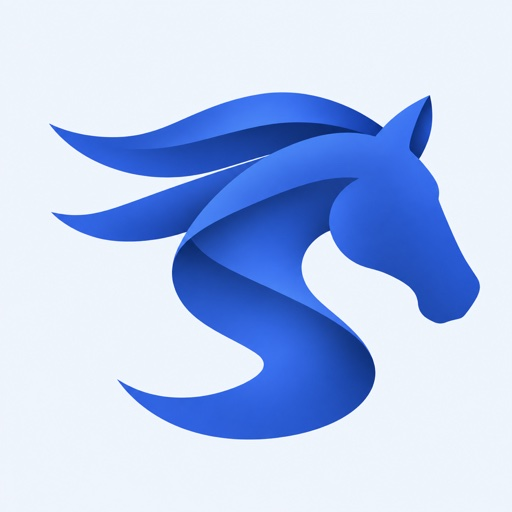
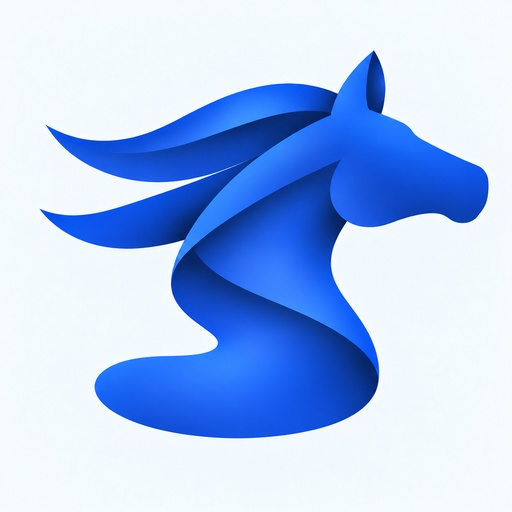
Update Stallion horse artwork across website

Changed region(s): [[0.0625, 0.0938, 0.9688, 0.875], [0.5938, 0.7812, 0.7188, 0.8438]]

diff --git a/stallion/privacy/index.html b/stallion/privacy/index.html
@@ -17,7 +17,7 @@
 <body>
   <main>
     <header>
-      <img src="/stallion/logo.png" alt="" width="132" height="106" />
+      <img src="/stallion/logo.png" alt="" width="132" height="114" />
       <h1>Stallion</h1>
       <p class="lede">A training journal for your Apple Health workouts.</p>
       <p class="soon">Coming soon to the App Store</p>

diff --git a/stallion/support/index.html b/stallion/support/index.html
@@ -18,7 +18,7 @@
 <body>
   <main>
     <header>
-      <img src="/stallion/logo.png" alt="" width="132" height="106" />
+      <img src="/stallion/logo.png" alt="" width="132" height="114" />
       <h1>Stallion</h1>
       <p class="lede">A training journal for your Apple Health workouts.</p>
       <p class="soon">Coming soon to the App Store</p>

diff --git a/stallion/index.html b/stallion/index.html
@@ -27,7 +27,7 @@
 <body>
   <main>
     <header>
-      <img src="/stallion/logo.png" alt="" width="132" height="106" />
+      <img src="/stallion/logo.png" alt="" width="132" height="114" />
       <h1>Stallion</h1>
       <p class="lede">Remember more than the numbers.</p>
       <p class="soon">Coming soon to the App Store</p>

diff --git a/README.md b/README.md
@@ -40,7 +40,7 @@ Jorick's personal maker site: a landing page for his apps, later a blog. "Steed"
 - Each app's one-liner is approved by Jorick; do not reword it without asking.
 - Icons in `assets/icons/` are 192px exports of each app's App Store icon, square and full-bleed (the page rounds the corners), each with a `-dark` variant for dark mode. Do not commit 1024px originals.
   - `atlasdays-dark.png` is the app's dark icon cropped 32px per side at 1024px, because the source has its own light rim and corners baked in.
-  - `stallion-dark.png` exists only on the web, since the app has a single icon: its transparent `Logo` on Stallion's dark card colour (`#1A2333`), in the horse's position in the light icon. Replace it with an export if the app gains a dark icon.
+  - `stallion-dark.png` is the app's dark icon composited on Stallion's dark card colour (`#1A2333`), preserving its position in the light icon. The Stallion repository's `scripts/export_brand_assets.py --web-output <directory>` exports both icons, the transparent page logo and the product link preview.
   - Jorick asked for both variants on 2026-10-10.
 
 ## URL layout
